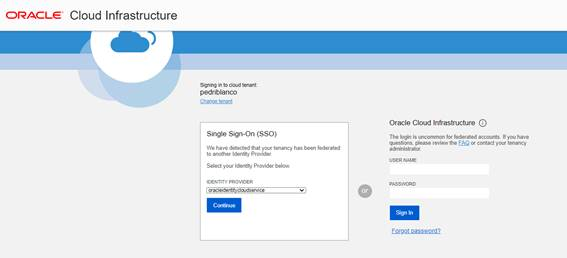
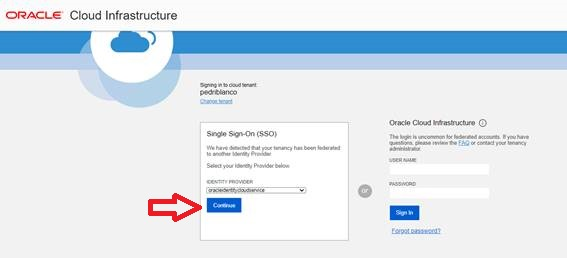
Segunda sección terminada.

Changed region(s): [[0.2399, 0.7442, 0.3598, 0.8682], [0.03, 0.031, 0.06, 0.062]]

diff --git a/Instructivo_Oracle.md b/Instructivo_Oracle.md
@@ -54,9 +54,9 @@ Luego, recibiremos un mail para validar el email.
 
 Ingresando a través del link, continuaremos el registro.
 
-En nombre de compañía, de forma opcional pueden poner el nombre de UADE. 
+En nombre de compañía, de forma opcional pueden poner el nombre de UADE.
 
-![](capturas\img4.jpg)
+ ![](capturas\img4.jpg)
 
 En región elegir **Latin America (Sao Paulo)**
 
@@ -74,15 +74,17 @@ Ingresamos nuestro número de teléfono.
 
 ![](capturas\imagen sms.jpg)
 
-En category and product eligen las siguientes: 
+En category and product eligen las siguientes:
 
 ![](capturas\img8.jpg)
 
 ![](capturas\img9.jpg)
 
-Luego de verificar el número de teléfono, debemos ingresar el método de pago 
+Luego de verificar el número de teléfono, debemos ingresar el método de pago.
 
-![](capturas\img10.jpg)
+
+
+ ![](capturas\img10.jpg)
 
 **AVISO: Puede que se reciba un cobro de 1 dólar pero se cancela AUTOMATICAMENTE es solo para corroborar la cuenta.**
 
@@ -95,3 +97,61 @@ Cuenta creada. Ahora debemos esperar a que se procese. (Puede tardar horas)
 
 
 ## Sección 2: Crear base de datos Autónoma
+
+Primero debemos iniciar sesión.
+
+Nos dirigimos a https://www.oracle.com/index.html
+
+![](capturas\img12.jpg)
+
+Ingresamos nuestro usuario.
+
+![img13](capturas\img13.jpg)
+
+Elegimos **Single Sign-On**.
+
+![img14](capturas\img14.jpg)
+
+Ingresamos con nuestro **correo electrónico**.
+
+![img15](capturas\img15.jpg)
+
+Una vez que estamos dentro de **Oracle Cloud**, nos dirigimos a "Almacén de datos autónomo".
+
+![img16](capturas\img16.jpg)
+
+Luego, entramos en "**Crear base de datos autónoma**".
+
+![img17](capturas\img17.jpg)
+
+Colocamos un nombre (para mostrar) y para la base de datos(interno). Pueden ser el mismo.
+
+![img18](capturas\img18.jpg)
+
+Elegimos tipo de base (preferentemente almacén de datos) y compartida para ser gratuita.
+
+![img19](capturas\img19.jpg)
+
+Marcamos la casilla Siempre gratis.
+
+![img20](capturas\img20.jpg)
+
+Una vez marcada,  se configurará para **Always Free**.
+
+![img21](capturas\img21.jpg)
+
+Indicamos la contraseña para **ADMIN** (Con ella ingresaremos a la base de datos para conectarnos).
+
+![img22](capturas\img22.jpg)
+
+Las configuraciones restantes podemos dejarlas por predeterminado. Clickeamos en **"Crear base de datos autónoma"**. 
+
+![img23](C:\Users\Pedro\OneDrive\Uade\proyecto division sistemas\git\capturas\img23.jpg)
+
+
+
+Esperamos a que la base termine de ser creada.
+
+![img24](C:\Users\Pedro\OneDrive\Uade\proyecto division sistemas\git\capturas\img24.jpg)
+
+## Sección 3: Descargar SQL Developer
